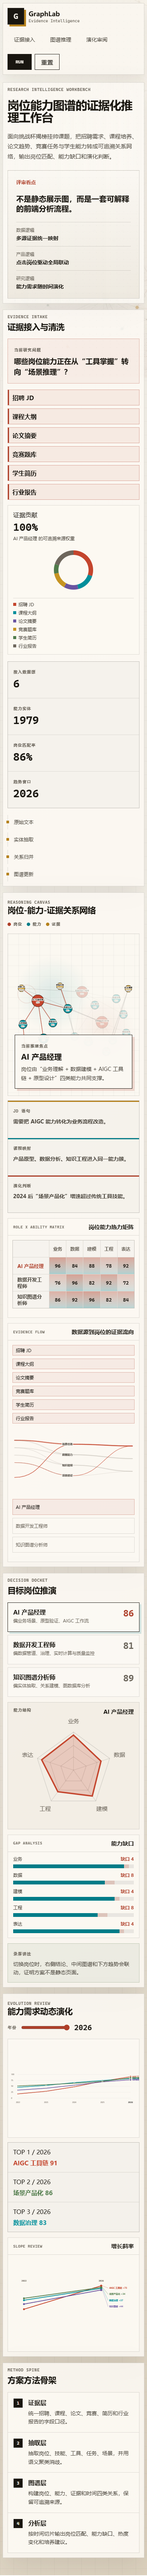
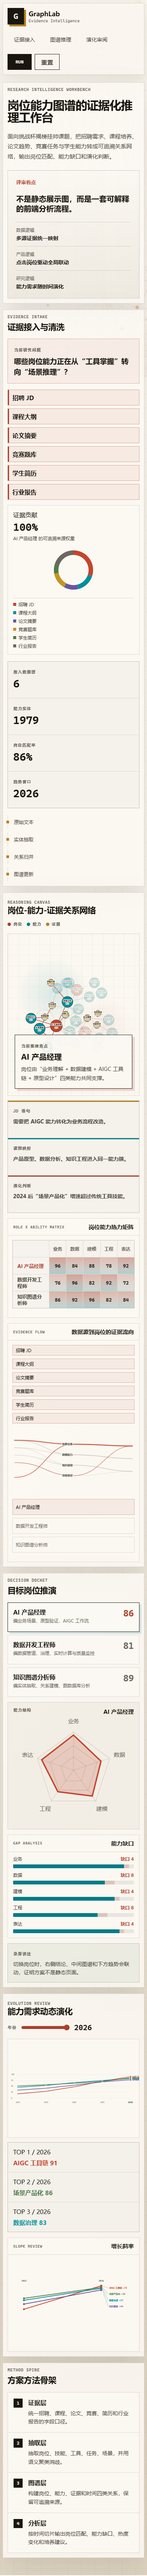
Enhance graph analytics with force-directed interactions

Changed region(s): [[0.1231, 0.3746, 0.8, 0.4058], [0.8308, 0.3746, 0.8923, 0.4058]]

diff --git a/src/components/KnowledgeGraph.tsx b/src/components/KnowledgeGraph.tsx
@@ -1,6 +1,8 @@
+import { useMemo, useRef, useState, type PointerEvent } from "react";
+import { forceCenter, forceCollide, forceLink, forceManyBody, forceSimulation } from "d3-force";
 import { graphEdges, graphNodes } from "../data/workbench";
 import { getFocusedNodeIds } from "../lib/analysis";
-import type { RoleId, RoleProfile, SourceId } from "../types/domain";
+import type { GraphNode, RoleId, RoleProfile, SourceId } from "../types/domain";
 import { AbilityHeatmap } from "./AbilityHeatmap";
 import { EvidenceFlowChart } from "./EvidenceFlowChart";
 
@@ -8,12 +10,89 @@ interface KnowledgeGraphProps {
   activeRole: RoleProfile;
   activeSources: Set<SourceId>;
   onSelectRole: (roleId: RoleId) => void;
+  year: number;
 }
 
 const roleNodeIds: RoleId[] = ["ai-pm", "data-engineer", "knowledge-analyst"];
 
-export function KnowledgeGraph({ activeRole, activeSources, onSelectRole }: KnowledgeGraphProps) {
+type LayoutNode = GraphNode & { x: number; y: number };
+
+const yearIndexByValue: Record<number, number> = {
+  2022: 0,
+  2023: 1,
+  2024: 2,
+  2025: 3,
+  2026: 4,
+};
+
+function buildForceLayout() {
+  const nodes: LayoutNode[] = graphNodes.map((node) => ({ ...node }));
+  const links = graphEdges.map(([source, target]) => ({ source, target }));
+
+  forceSimulation(nodes)
+    .force("link", forceLink<LayoutNode, { source: string; target: string }>(links).id((node) => node.id).distance(92).strength(0.48))
+    .force("charge", forceManyBody().strength(-380))
+    .force("collide", forceCollide<LayoutNode>().radius((node) => node.r + 18).strength(0.92))
+    .force("center", forceCenter(460, 280))
+    .stop()
+    .tick(220);
+
+  return nodes.map((node) => ({
+    ...node,
+    x: Math.max(54, Math.min(866, node.x)),
+    y: Math.max(54, Math.min(506, node.y)),
+  }));
+}
+
+function getNodeRadius(node: GraphNode, year: number) {
+  if (!node.yearlyDemand) return node.r;
+  const demand = node.yearlyDemand[yearIndexByValue[year] ?? 4];
+  return Math.round(18 + demand * 0.24);
+}
+
+function getSvgPoint(svg: SVGSVGElement, clientX: number, clientY: number) {
+  const point = svg.createSVGPoint();
+  point.x = clientX;
+  point.y = clientY;
+  const matrix = svg.getScreenCTM();
+  if (!matrix) return point;
+  return point.matrixTransform(matrix.inverse());
+}
+
+export function KnowledgeGraph({ activeRole, activeSources, onSelectRole, year }: KnowledgeGraphProps) {
+  const svgRef = useRef<SVGSVGElement | null>(null);
+  const [draggingId, setDraggingId] = useState<string | null>(null);
+  const [hoveredId, setHoveredId] = useState<string | null>(null);
+  const [positionOverrides, setPositionOverrides] = useState<Record<string, { x: number; y: number }>>({});
   const focusedIds = getFocusedNodeIds(activeRole.id, activeSources);
+  const layoutNodes = useMemo(buildForceLayout, []);
+  const positionById = useMemo(() => {
+    return new Map(layoutNodes.map((node) => {
+      const override = positionOverrides[node.id];
+      return [node.id, { ...node, x: override?.x ?? node.x, y: override?.y ?? node.y }] as const;
+    }));
+  }, [layoutNodes, positionOverrides]);
+  const neighborIds = useMemo(() => {
+    if (!hoveredId) return new Set<string>();
+    const related = new Set<string>([hoveredId]);
+    graphEdges.forEach(([source, target]) => {
+      if (source === hoveredId) related.add(target);
+      if (target === hoveredId) related.add(source);
+    });
+    return related;
+  }, [hoveredId]);
+
+  function updateDragPosition(event: PointerEvent<SVGSVGElement>) {
+    if (!draggingId || !svgRef.current) return;
+    const point = getSvgPoint(svgRef.current, event.clientX, event.clientY);
+    setPositionOverrides((current) => ({
+      ...current,
+      [draggingId]: {
+        x: Math.max(44, Math.min(876, point.x)),
+        y: Math.max(44, Math.min(516, point.y)),
+      },
+    }));
+  }
 
   return (
     <article className="graph-panel" id="graph">
@@ -29,14 +108,28 @@ export function KnowledgeGraph({ activeRole, activeSources, onSelectRole }: Know
         </div>
       </div>
       <div className="graph-stage">
-        <svg id="knowledge-graph" viewBox="0 0 920 560" role="img" aria-label="岗位能力知识图谱">
+        <svg
+          id="knowledge-graph"
+          ref={svgRef}
+          viewBox="0 0 920 560"
+          role="img"
+          aria-label="可拖拽力导向岗位能力知识图谱"
+          onPointerMove={updateDragPosition}
+          onPointerUp={() => setDraggingId(null)}
+          onPointerLeave={() => {
+            setDraggingId(null);
+            setHoveredId(null);
+          }}
+        >
           <g>
             {graphEdges.map(([fromId, toId]) => {
-              const from = graphNodes.find((node) => node.id === fromId);
-              const to = graphNodes.find((node) => node.id === toId);
+              const from = positionById.get(fromId);
+              const to = positionById.get(toId);
               if (!from || !to) return null;
               const isRelevant = focusedIds.has(fromId) && focusedIds.has(toId);
-              const isDim = !focusedIds.has(fromId) && !focusedIds.has(toId);
+              const isDim = hoveredId
+                ? !neighborIds.has(fromId) || !neighborIds.has(toId)
+                : !focusedIds.has(fromId) && !focusedIds.has(toId);
               return (
                 <line
                   key={`${fromId}-${toId}`}
@@ -50,20 +143,31 @@ export function KnowledgeGraph({ activeRole, activeSources, onSelectRole }: Know
             })}
           </g>
           <g>
-            {graphNodes.map((node) => {
+            {layoutNodes.map((node) => {
+              const position = positionById.get(node.id) ?? node;
               const isRole = roleNodeIds.includes(node.id as RoleId);
-              const isDim = !focusedIds.has(node.id) && node.type !== "data";
+              const isDim = hoveredId
+                ? !neighborIds.has(node.id)
+                : !focusedIds.has(node.id) && node.type !== "data";
+              const radius = getNodeRadius(node, year);
               return (
                 <g
                   key={node.id}
+                  data-node-id={node.id}
                   className={`graph-node ${isDim ? "is-dim" : ""}`}
-                  transform={`translate(${node.x} ${node.y})`}
+                  transform={`translate(${position.x} ${position.y})`}
                   onClick={() => {
                     if (isRole) onSelectRole(node.id as RoleId);
                   }}
+                  onPointerDown={(event) => {
+                    event.currentTarget.setPointerCapture(event.pointerId);
+                    setDraggingId(node.id);
+                  }}
+                  onPointerEnter={() => setHoveredId(node.id)}
+                  onPointerLeave={() => setHoveredId(null)}
                 >
-                  {node.id === activeRole.id ? <circle r={node.r + 12} className="pulse-ring" /> : null}
-                  <circle r={node.r} fill={node.color} className="node-circle" />
+                  {node.id === activeRole.id ? <circle r={radius + 12} className="pulse-ring" /> : null}
+                  <circle r={radius} fill={node.color} className="node-circle" />
                   <text y={-4} textAnchor="middle" className="node-label">{node.label}</text>
                   <text y={16} textAnchor="middle" className="node-sub">{node.sub}</text>
                 </g>

diff --git a/src/data/workbench.ts b/src/data/workbench.ts
@@ -57,31 +57,49 @@ export const graphNodes: GraphNode[] = [
   { id: "ai-pm", label: "AI 产品经理", sub: "岗位", type: "role", x: 210, y: 180, r: 42, color: "#c4452d" },
   { id: "data-engineer", label: "数据开发工程师", sub: "岗位", type: "role", x: 520, y: 118, r: 40, color: "#c4452d" },
   { id: "knowledge-analyst", label: "知识图谱分析师", sub: "岗位", type: "role", x: 660, y: 330, r: 42, color: "#c4452d" },
-  { id: "business", label: "业务理解", sub: "能力", type: "skill", x: 105, y: 345, r: 30, color: "#008f9b" },
-  { id: "prototype", label: "原型设计", sub: "能力", type: "skill", x: 315, y: 335, r: 29, color: "#008f9b" },
-  { id: "aigc", label: "AIGC 工具链", sub: "能力", type: "skill", x: 250, y: 445, r: 34, color: "#008f9b" },
-  { id: "data", label: "数据分析", sub: "能力", type: "skill", x: 420, y: 235, r: 31, color: "#008f9b" },
-  { id: "etl", label: "ETL 管道", sub: "能力", type: "skill", x: 610, y: 210, r: 29, color: "#008f9b" },
-  { id: "governance", label: "数据治理", sub: "能力", type: "skill", x: 760, y: 165, r: 30, color: "#008f9b" },
-  { id: "stream", label: "实时计算", sub: "能力", type: "skill", x: 810, y: 275, r: 29, color: "#008f9b" },
-  { id: "sql", label: "SQL/仓库", sub: "能力", type: "skill", x: 468, y: 430, r: 28, color: "#008f9b" },
-  { id: "kg", label: "图谱建模", sub: "能力", type: "skill", x: 565, y: 465, r: 32, color: "#008f9b" },
-  { id: "nlp", label: "实体抽取", sub: "能力", type: "skill", x: 735, y: 455, r: 30, color: "#008f9b" },
-  { id: "neo4j", label: "图数据库", sub: "能力", type: "skill", x: 830, y: 405, r: 28, color: "#008f9b" },
-  { id: "reasoning", label: "关系推理", sub: "能力", type: "skill", x: 690, y: 535, r: 29, color: "#008f9b" },
+  { id: "business", label: "业务理解", sub: "能力", type: "skill", x: 105, y: 345, r: 30, color: "#008f9b", yearlyDemand: [52, 58, 66, 78, 88] },
+  { id: "prototype", label: "原型设计", sub: "能力", type: "skill", x: 315, y: 335, r: 29, color: "#008f9b", yearlyDemand: [48, 56, 64, 70, 76] },
+  { id: "aigc", label: "AIGC 工具链", sub: "能力", type: "skill", x: 250, y: 445, r: 34, color: "#008f9b", yearlyDemand: [18, 29, 48, 72, 91] },
+  { id: "data", label: "数据分析", sub: "能力", type: "skill", x: 420, y: 235, r: 31, color: "#008f9b", yearlyDemand: [46, 54, 66, 75, 83] },
+  { id: "etl", label: "ETL 管道", sub: "能力", type: "skill", x: 610, y: 210, r: 29, color: "#008f9b", yearlyDemand: [42, 48, 58, 70, 78] },
+  { id: "governance", label: "数据治理", sub: "能力", type: "skill", x: 760, y: 165, r: 30, color: "#008f9b", yearlyDemand: [46, 54, 66, 75, 83] },
+  { id: "stream", label: "实时计算", sub: "能力", type: "skill", x: 810, y: 275, r: 29, color: "#008f9b", yearlyDemand: [38, 47, 55, 67, 76] },
+  { id: "sql", label: "SQL/仓库", sub: "能力", type: "skill", x: 468, y: 430, r: 28, color: "#008f9b", yearlyDemand: [60, 64, 68, 70, 73] },
+  { id: "kg", label: "图谱建模", sub: "能力", type: "skill", x: 565, y: 465, r: 32, color: "#008f9b", yearlyDemand: [34, 42, 55, 69, 78] },
+  { id: "nlp", label: "实体抽取", sub: "能力", type: "skill", x: 735, y: 455, r: 30, color: "#008f9b", yearlyDemand: [44, 50, 62, 73, 82] },
+  { id: "neo4j", label: "图数据库", sub: "能力", type: "skill", x: 830, y: 405, r: 28, color: "#008f9b", yearlyDemand: [28, 36, 48, 61, 73] },
+  { id: "reasoning", label: "关系推理", sub: "能力", type: "skill", x: 690, y: 535, r: 29, color: "#008f9b", yearlyDemand: [30, 39, 52, 66, 81] },
+  { id: "prompt", label: "提示工程", sub: "能力", type: "skill", x: 338, y: 496, r: 25, color: "#008f9b", yearlyDemand: [12, 25, 46, 68, 84] },
+  { id: "agent", label: "智能体编排", sub: "能力", type: "skill", x: 395, y: 518, r: 26, color: "#008f9b", yearlyDemand: [8, 18, 38, 62, 86] },
+  { id: "evaluation", label: "模型评测", sub: "能力", type: "skill", x: 470, y: 500, r: 25, color: "#008f9b", yearlyDemand: [20, 31, 46, 65, 80] },
+  { id: "privacy", label: "数据合规", sub: "能力", type: "skill", x: 700, y: 112, r: 24, color: "#008f9b", yearlyDemand: [40, 47, 59, 71, 82] },
+  { id: "viz", label: "可视分析", sub: "能力", type: "skill", x: 594, y: 378, r: 25, color: "#008f9b", yearlyDemand: [36, 43, 57, 70, 79] },
+  { id: "feature", label: "特征工程", sub: "能力", type: "skill", x: 520, y: 310, r: 24, color: "#008f9b", yearlyDemand: [50, 56, 63, 69, 76] },
+  { id: "bi", label: "BI 看板", sub: "能力", type: "skill", x: 368, y: 165, r: 23, color: "#008f9b", yearlyDemand: [45, 51, 58, 64, 70] },
   { id: "job", label: "招聘 JD", sub: "证据源", type: "data", x: 95, y: 92, r: 24, color: "#c69422" },
   { id: "course", label: "课程大纲", sub: "证据源", type: "data", x: 365, y: 78, r: 24, color: "#c69422" },
   { id: "paper", label: "论文摘要", sub: "证据源", type: "data", x: 845, y: 95, r: 24, color: "#c69422" },
+  { id: "contest", label: "竞赛题库", sub: "证据源", type: "data", x: 220, y: 70, r: 23, color: "#c69422" },
+  { id: "resume", label: "学生简历", sub: "证据源", type: "data", x: 75, y: 430, r: 23, color: "#c69422" },
   { id: "report", label: "行业报告", sub: "证据源", type: "data", x: 120, y: 500, r: 24, color: "#c69422" },
+  { id: "standard", label: "技能标准", sub: "证据源", type: "data", x: 845, y: 510, r: 23, color: "#c69422" },
+  { id: "patent", label: "专利简报", sub: "证据源", type: "data", x: 750, y: 72, r: 22, color: "#c69422" },
 ];
 
 export const graphEdges: GraphEdge[] = [
-  ["job", "ai-pm"], ["job", "data-engineer"], ["job", "knowledge-analyst"],
+  ["job", "ai-pm"], ["job", "data-engineer"], ["job", "knowledge-analyst"], ["job", "prompt"],
   ["course", "data"], ["course", "sql"], ["paper", "nlp"], ["paper", "reasoning"], ["report", "business"], ["report", "aigc"],
   ["ai-pm", "business"], ["ai-pm", "prototype"], ["ai-pm", "aigc"], ["ai-pm", "data"],
   ["data-engineer", "etl"], ["data-engineer", "governance"], ["data-engineer", "stream"], ["data-engineer", "sql"],
   ["knowledge-analyst", "kg"], ["knowledge-analyst", "nlp"], ["knowledge-analyst", "neo4j"], ["knowledge-analyst", "reasoning"], ["knowledge-analyst", "data"],
   ["kg", "neo4j"], ["nlp", "kg"], ["sql", "etl"], ["governance", "stream"], ["data", "sql"],
+  ["ai-pm", "prompt"], ["ai-pm", "agent"], ["ai-pm", "evaluation"], ["ai-pm", "viz"],
+  ["data-engineer", "feature"], ["data-engineer", "privacy"], ["data-engineer", "bi"], ["data-engineer", "viz"],
+  ["knowledge-analyst", "evaluation"], ["knowledge-analyst", "agent"], ["knowledge-analyst", "privacy"], ["knowledge-analyst", "viz"],
+  ["paper", "agent"], ["paper", "evaluation"], ["paper", "prompt"], ["contest", "prototype"], ["contest", "agent"],
+  ["resume", "business"], ["resume", "sql"], ["resume", "viz"], ["standard", "privacy"], ["standard", "governance"],
+  ["standard", "evaluation"], ["patent", "agent"], ["patent", "reasoning"], ["report", "privacy"],
+  ["aigc", "prompt"], ["prompt", "agent"], ["agent", "evaluation"], ["feature", "data"], ["bi", "data"], ["viz", "kg"],
 ];
 
 export const trendYears = [2022, 2023, 2024, 2025, 2026] as const;

diff --git a/tests/e2e/workbench.spec.ts b/tests/e2e/workbench.spec.ts
@@ -9,8 +9,14 @@ test("renders the engineering workbench and responds to role/source/year changes
 
   await page.goto("/");
   await expect(page.getByRole("heading", { name: "岗位能力图谱的证据化推理工作台" })).toBeVisible();
-  await expect(page.locator("#knowledge-graph .graph-node")).toHaveCount(19);
-  await expect(page.locator("#knowledge-graph .graph-link")).toHaveCount(27);
+  await expect(page.locator("#knowledge-graph .graph-node")).toHaveCount(30);
+  await expect(page.locator("#knowledge-graph .graph-link")).toHaveCount(60);
+
+  const aigcCircle = page.locator('[data-node-id="aigc"] .node-circle');
+  const radius2026 = Number(await aigcCircle.getAttribute("r"));
+  await page.locator("#year-slider").fill("2022");
+  const radius2022 = Number(await aigcCircle.getAttribute("r"));
+  expect(radius2026).toBeGreaterThan(radius2022);
 
   await page.getByRole("button", { name: /数据开发工程师/ }).click();
   await expect(page.getByRole("button", { name: /数据开发工程师/ })).toHaveAttribute("aria-pressed", "true");

diff --git a/src/App.tsx b/src/App.tsx
@@ -77,6 +77,7 @@ export function App() {
               activeRole={activeRole}
               activeSources={activeSources}
               onSelectRole={setActiveRoleId}
+              year={year}
             />
             <DecisionPanel activeRole={activeRole} onSelectRole={setActiveRoleId} roles={roles} />
           </section>

diff --git a/src/types/domain.ts b/src/types/domain.ts
@@ -32,6 +32,7 @@ export interface GraphNode {
   y: number;
   r: number;
   color: string;
+  yearlyDemand?: number[];
 }
 
 export type GraphEdge = readonly [string, string];
